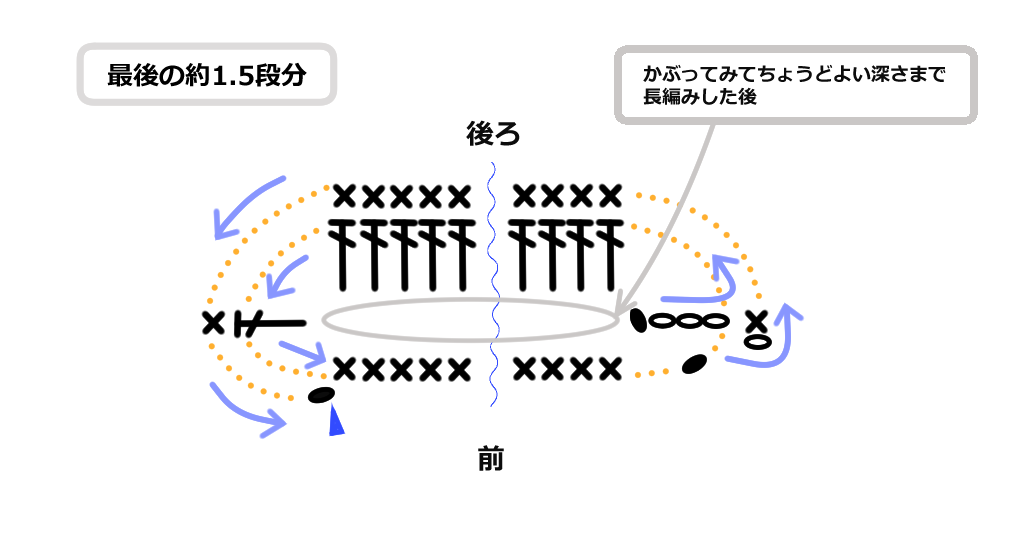
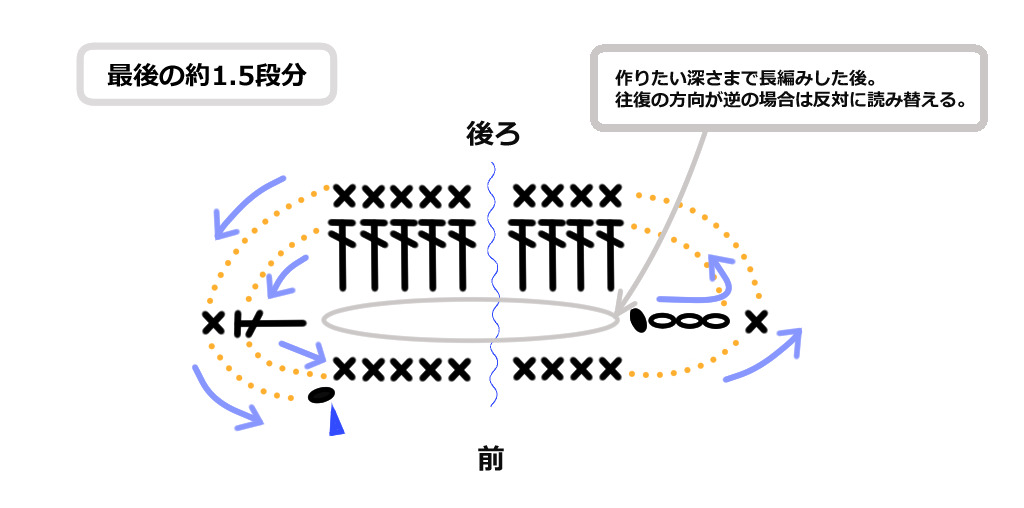
Update: 説明変更

diff --git a/square_beanie/square_benie_jp.md b/square_beanie/square_benie_jp.md
@@ -1,28 +1,27 @@
 四角いニット帽 Square Beanie
 ---
 
-四角い封筒状のニット帽。かぶると角が猫耳状になります。  
+かぎ針編みで作る四角い封筒状のニット帽です。かぶると角が猫耳状になります。  
 ゲージを気にせず、頭のサイズに合わせながら作ります。
-
-
-
-## 作り方概要
-1. 鎖編みを作りたい幅まで編む。頭に当ててみて、頭頂部を真ん中にして、だいたい左右のこめかみの位置くらい。[^1]
-2. 鎖編みの周りを細編みでぐるっと編む。編み目の数は、鎖編みの目×2+2目(両端)
-3. 長編みで作りたい深さまで輪編みで編む。
-   同じ方向に編むと目が少しずつずれるため、往復編みで編む。表側からは交互に長編みの裏側が見える状態。
-   時々かぶってサイズを確認する。
-5. ちょうどよい深さまできたら、長編みを鎖編みの目+2目編む。（この分後ろ側が少し深くなる）
-6. 細編みで1周編んで、終了。
-
-[^1]:   
-![鎖編みの長さの目安](SquareBenie3.png "鎖編みの長さの目安")
 
 
 ## 必要なもの
 - 毛糸 (太い方がざくざく編めて簡単です)
 - 毛糸の太さに合わせたサイズのかぎ針
 - とじ針
+
+
+## 作り方概要
+
+鎖編みを作りたい幅まで編む。頭に当ててみて、頭頂部を真ん中にして、だいたい左右のこめかみの位置くらい。※  
+鎖編みの周りを細編みでぐるっと編む。  
+長編みで作りたい深さまで輪編みで編む。
+同じ方向に編むと目が少しずつずれるため、往復編みで編む。表側からは交互に長編みの裏側が見える状態。  
+時々かぶってサイズを確認する。
+ちょうどよい深さまできたら、後ろ側半分を長編み、その後細編みを1周編んで終了。
+
+※鎖編みの長さの目安   
+![鎖編みの長さの目安](SquareBenie3.png "鎖編みの長さの目安")
 
 
 ## パターン
@@ -55,8 +54,8 @@
   - かぎ針目安: 8～10mm
   - 標準ゲージ: 7～8目/10cm
 - 使用かぎ針: 8mm
-- 頭回り: 55cm
-- 鎖編みの幅: 22cm
+- 頭回り: 約55cm
+- 鎖編みの幅: 約22cm
 
 1. 18 - 鎖編み
 1. 38 - 細編み
